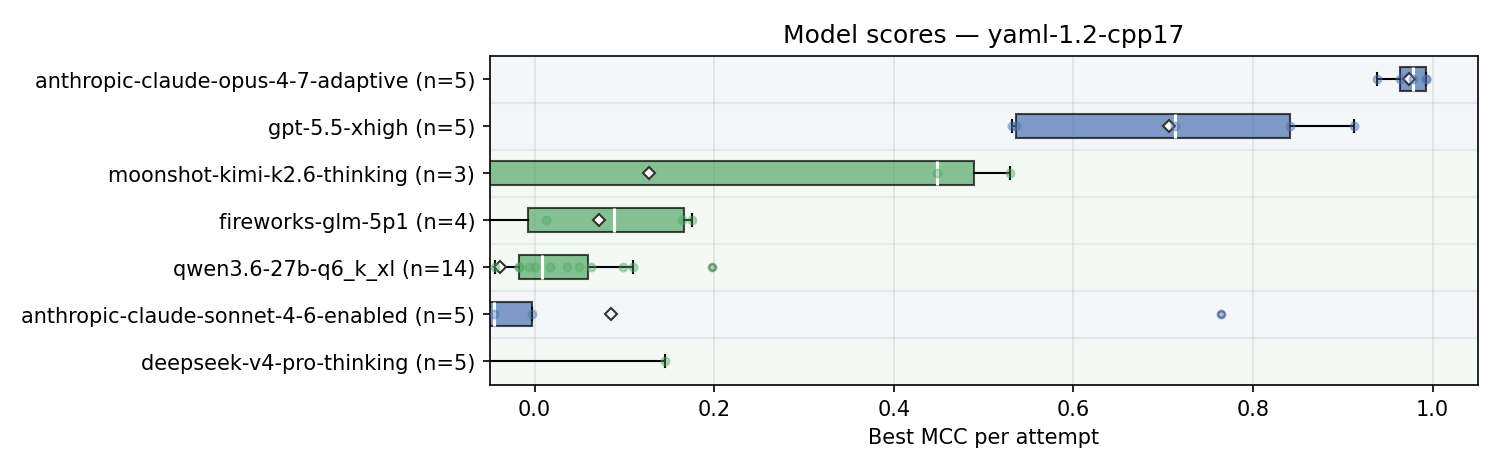
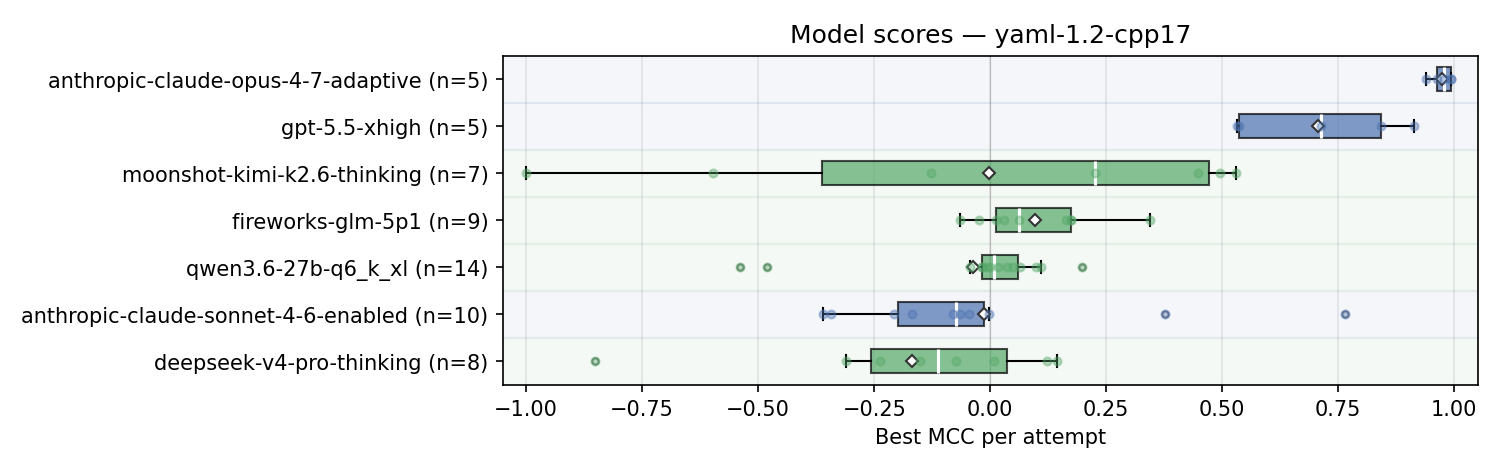
validation-bench: plot_scores boxplot — widen x-axis to full MCC range [-1, 1]
## Original task

User asked to update the yaml-1.2-cpp17 boxplot with newly accumulated
results. While re-rendering, noticed that the chart's `set_xlim(-0.05,
1.05)` was clipping every negative-MCC datapoint against the left edge
— including the MCC=-1.000 cluster from the inverted-parser attempts
(documented in `examples/yaml-1.2-cpp17-{sonnet,kimi}-perfectly-inverted*/`)
and several -0.5 to -0.85 outliers from sonnet, deepseek, and qwen.
User caught it: "I wonder if we should first change the chart to include
negative values for MCC."

The previous narrow x-range made sense when the benchmark was producing
mostly-positive MCCs (good or bad models, but rarely actively
anti-correlated ones). Once the inverted-parser failure mode started
surfacing in the data, the visualization needed to grow to show it.

## Implementation notes

Two-line change in `scripts/plot_scores.py:plot_boxplots`:

  - ax.set_xlim(-0.05, 1.05)
  + ax.set_xlim(-1.05, 1.05)
  + ax.axvline(0, color="#999", linewidth=0.6, alpha=0.6, zorder=1)

The added vertical line at MCC=0 anchors interpretation visually:
anything to its right is positive correlation (better than random),
anything to its left is anti-correlated. With the wider range now
spanning negative values, this reference line becomes load-bearing —
without it readers have to mentally locate "where does positive
performance start" against an arbitrary axis.

The comment on the new xlim points readers to the examples/ entries
[…]

diff --git a/validation-bench/scripts/plot_scores.py b/validation-bench/scripts/plot_scores.py
@@ -102,7 +102,11 @@ def plot_boxplots(scores: dict[str, list[float]], task: str, output: Path,
     ax.set_yticklabels(labels)
     ax.set_xlabel("Best MCC per attempt")
     ax.set_title(f"Model scores — {task}")
-    ax.set_xlim(-0.05, 1.05)
+    # Full MCC range so perfect-anti-correlation outliers (MCC=-1, observed
+    # on yaml-1.2-cpp17 from sonnet and kimi inverted-parser submissions —
+    # see examples/) don't get clipped against the left edge.
+    ax.set_xlim(-1.05, 1.05)
+    ax.axvline(0, color="#999", linewidth=0.6, alpha=0.6, zorder=1)
     ax.grid(axis="x", alpha=0.3)
 
     # Scatter individual points
